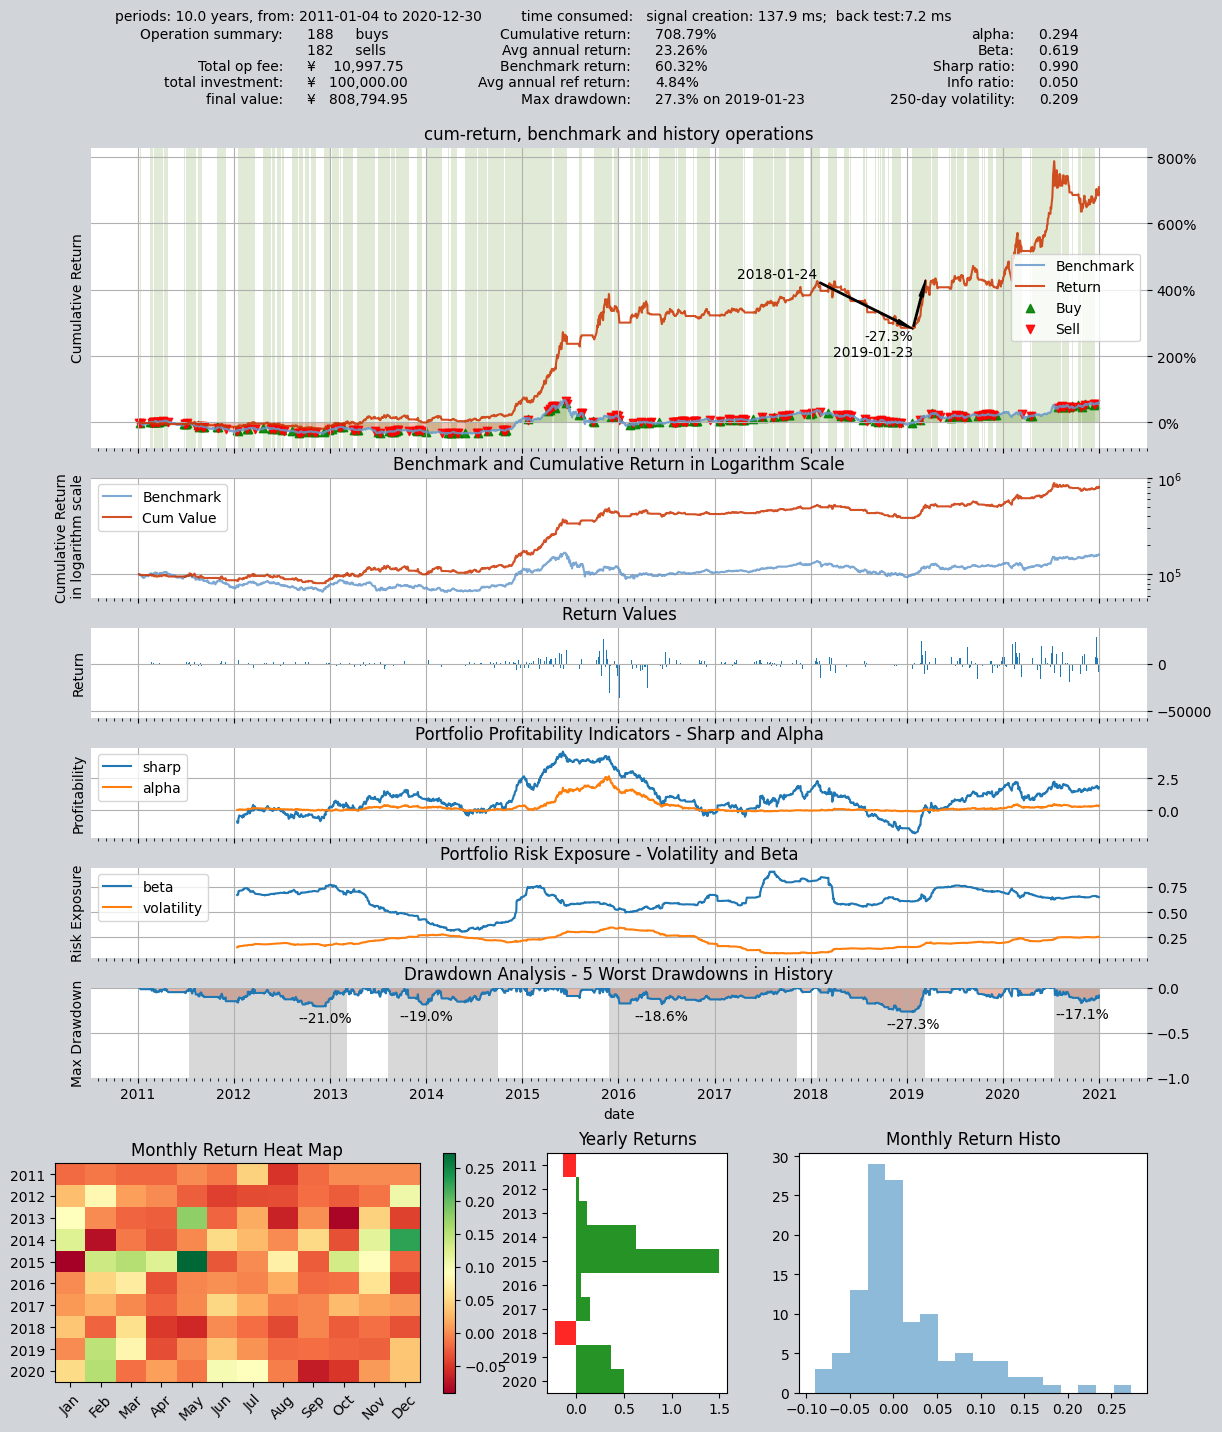
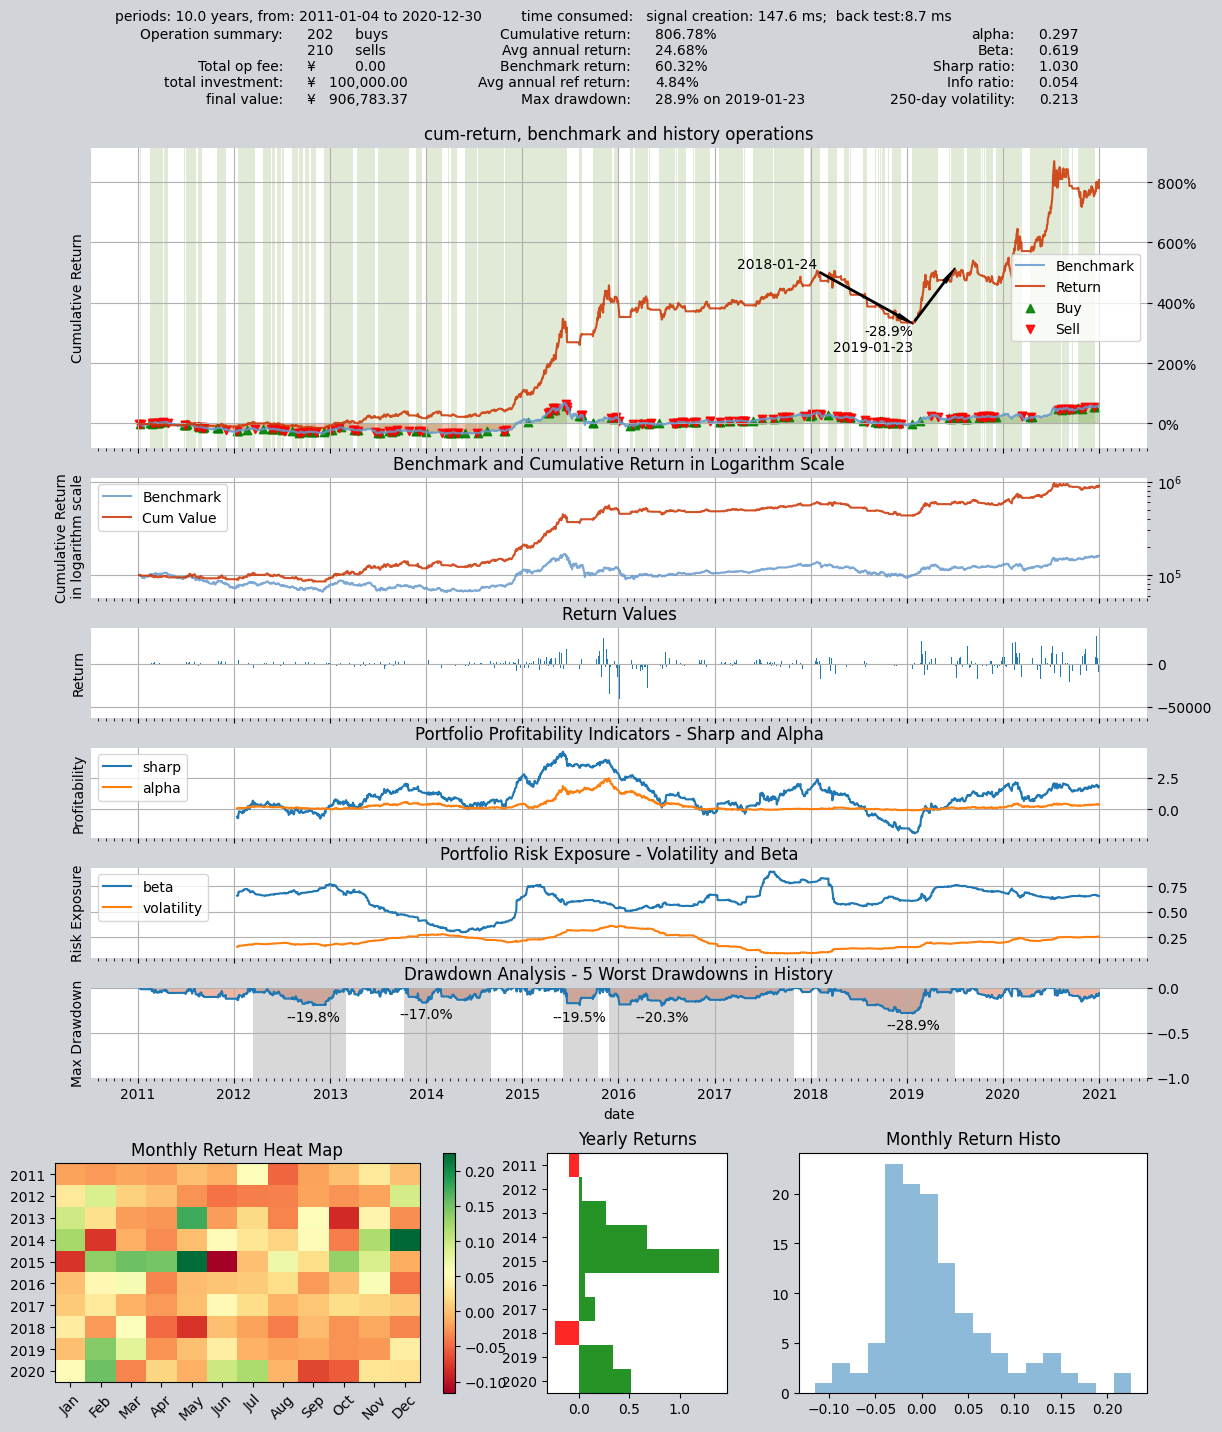
Update version to 2.1.1 and enhance documentation
- Bumped the version number to 2.1.1 in pyproject.toml and relevant documentation files.
- Updated the release history to include new features and fixes, such as improved backtest report accuracy and automatic trade log rotation.
- Adjusted documentation to reflect the latest version and its enhancements, ensuring consistency across all references.

diff --git a/qteasy/__init__.py b/qteasy/__init__.py
@@ -112,15 +112,15 @@ from qteasy._arg_validators import (
 
 
 # qteasy版本信息
-__version__ = '2.1.0'
+__version__ = '2.1.1'
 version_info = Namespace(
         major=2,
         minor=1,
-        patch=0,
+        patch=1,
         short=(2, 1),
-        full=(2, 1, 0),
-        string='2.1.0',
-        tuple=('2', '1', '0'),
+        full=(2, 1, 1),
+        string='2.1.1',
+        tuple=('2', '1', '1'),
         releaselevel='beta',
 )
 

diff --git a/docs/source/conf.py b/docs/source/conf.py
@@ -15,7 +15,7 @@ project = 'qteasy'
 copyright = '2023, Jackie PENG'
 author = 'Jackie PENG'
 version = '2.1'
-release = '2.1.0'
+release = '2.1.1'
 
 # -- General configuration ---------------------------------------------------
 # https://www.sphinx-doc.org/en/master/usage/configuration.html#general-configuration

diff --git a/docs/source/RELEASE_HISTORY.md b/docs/source/RELEASE_HISTORY.md
@@ -1,5 +1,9 @@
 # RELEASE HISTORY
 
+## 2.1.1 (2026-03-06)
+- Fixed backtest report "Total operation fee" always showing zero when daily evaluation uses `evaluate_price_data`. Fees were aggregated by date but then reindexed against the daily index that carries a time-of-day (e.g. 15:00), so the index mismatch produced all NaNs and the subsequent fillna(0) zeroed the fee column. Alignment is now done on normalized dates so that `backtest_result['total_fee']` matches the sum of per-trade fees in trade_log.
+- Added automatic rotation for trade_log and trade_summary files: before writing new logs, older `trade_log_*.csv` and `trade_summary_*.csv` files are removed according to the configured retention period to avoid unbounded growth of the log directory. This only affects on-disk files; no new config keys or API changes.
+
 ## 2.1.0 (2026-03-06)
 - **Process data (proc.\*) API**: Strategies can access runtime state (cash, positions, trade records, etc.) via `get_data('proc.own_cash')`, `get_data('proc.trade_records', lag=0)` and other `proc.*` fields in `realize()` without declaring them in `data_types`. Process data is injected by Backtester (backtest) and Trader (live) and respects no-look-ahead: at step k the strategy sees only results from steps 0..k-1 for trade data.
 - **Dynamic backtest path selection**: If any strategy uses `proc.*` in its `realize()` source, backtest automatically uses the stepwise path (`_backtest_dynamic_operator`); otherwise the static path (batch signals + vectorized backtest) is used. Detection is via `_strategies_use_proc_data()` so no declaration is required.

diff --git a/docs/source/back_testing/4. trade_log.md b/docs/source/back_testing/4. trade_log.md
@@ -23,6 +23,7 @@
 
 - **查看**：回测结束后可通过结果对象或 API 读取 trade_log（如 DataFrame 或文件路径）。
 - **保存**：若框架将日志写入文件，路径由配置项 **trade_log_file_path** 决定（支持相对/绝对/家目录路径，可通过 **qt.configure()** 热修改），详见 API 文档。
+- **日志轮转（rotate）**：当启用 trade_log 文件输出时，qteasy 会在写入新日志前按配置的保留天数自动清理历史的 `trade_log_*.csv` 与 `trade_summary_*.csv` 文件，避免日志目录无限膨胀。轮转逻辑仅影响磁盘上的旧文件，不改变回测结果或任何对外 API。
 
 ## 与 result 的关系
 

diff --git a/README.md b/README.md
@@ -51,7 +51,7 @@
 - 作者: **Jackie PENG**
 - email: *jackie_pengzhao@163.com*
 - Created: 2019, July, 16
-- Latest Version: `2.1.0`
+- Latest Version: `2.1.1`
 - License: BSD 3-Clause License
 
 `qteasy`是为量化交易人员开发的一套量化交易工具包，特点如下：

diff --git a/docs/source/index.rst b/docs/source/index.rst
@@ -22,7 +22,7 @@
 - 作者: **Jackie PENG**
 - email: *jackie_pengzhao@163.com*
 - 创建日期: 2019, July, 16
-- 最新版本: `2.1.0`
+- 最新版本: `2.1.1`
 - License: BSD 3-Clause
 
 简介

diff --git a/docs/source/about.md b/docs/source/about.md
@@ -4,5 +4,5 @@
 - 作者: **Jackie PENG**
 - Email: *jackie_pengzhao@163.com*
 - 创建日期: 2019, July, 16
-- 最新版本: `2.1.0`
+- 最新版本: `2.1.1`
 - License: BSD 3-Clause

diff --git a/docs/source/getting_started.md b/docs/source/getting_started.md
@@ -17,7 +17,7 @@ pip install qteasy
 输出如下：
 
 ```
-2.1.0
+2.1.1
 ```
 ---
 
